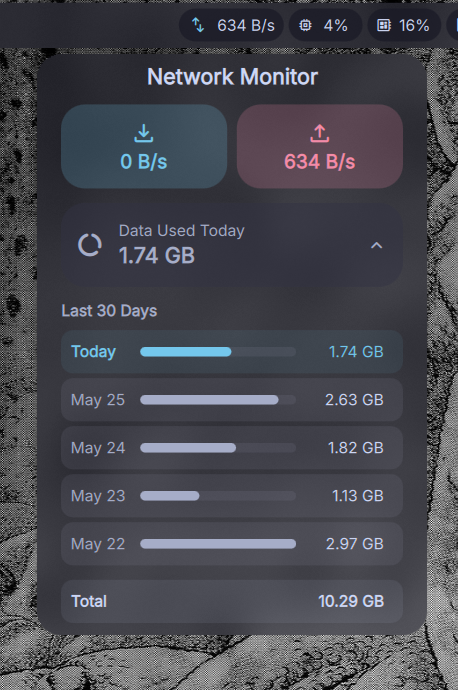
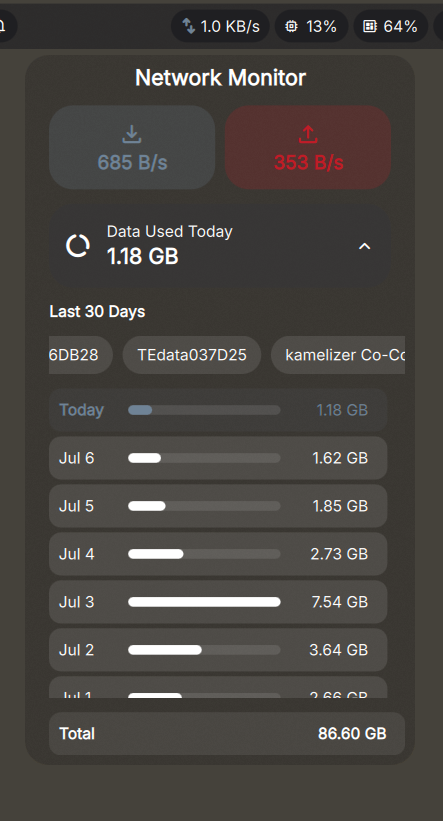
fix: improve network interface selection and reset speed calculations on device switch

diff --git a/NetworkIndicator.qml b/NetworkIndicator.qml
@@ -25,6 +25,7 @@ PluginComponent {
     property real totalSpeed: downloadSpeed + uploadSpeed
     property real prevRxBytes: -1   // -1 = uninitialized sentinel
     property real prevTxBytes: -1
+    property string prevIface: ""   // tracks interface change between cycles
     property bool interfaceFound: true  // assume online until first poll completes
     property bool _foundThisCycle: false // per-cycle temp flag (never triggers re-render)
     property string _activeIfaceThisCycle: "" // interface name found this cycle
@@ -336,18 +337,27 @@ PluginComponent {
         id: netProcess
         command: [
             "sh", "-c",
-            "cat /proc/net/dev; " +
+            "active_iface=\"\"; " +
             "for f in /sys/class/net/*/operstate; do " +
             "  iface=$(basename $(dirname $f)); " +
-            "  echo \"OPSTATE:${iface}:$(cat $f)\"; " +
-            "  if [ -d /sys/class/net/${iface}/wireless ]; then " +
-            "    ssid=$(iwgetid -r ${iface} 2>/dev/null); " +
-            "    if [ -z \"$ssid\" ] && command -v nmcli >/dev/null 2>&1; then " +
-            "      ssid=$(nmcli -t -c no -f device,active,ssid dev wifi 2>/dev/null | grep \"^${iface}:yes:\" | cut -d: -f3-); " +
-            "    fi; " +
-            "    echo \"SSID:${iface}:${ssid}\"; " +
+            "  case \"$iface\" in lo|docker*|br-*|veth*|virbr*) continue ;; esac; " +
+            "  state=$(cat $f 2>/dev/null); " +
+            "  if [ \"$state\" = \"up\" ] || [ \"$state\" = \"unknown\" ]; then " +
+            "    active_iface=\"$iface\"; " +
+            "    break; " +
             "  fi; " +
-            "done"
+            "done; " +
+            "if [ -n \"$active_iface\" ]; then " +
+            "  grep \"^[ ]*$active_iface:\" /proc/net/dev; " +
+            "  echo \"OPSTATE:${active_iface}:up\"; " +
+            "  if [ -d \"/sys/class/net/${active_iface}/wireless\" ]; then " +
+            "    ssid=$(iwgetid -r ${active_iface} 2>/dev/null); " +
+            "    if [ -z \"$ssid\" ] && command -v nmcli >/dev/null 2>&1; then " +
+            "      ssid=$(nmcli -t -c no -f device,active,ssid dev wifi 2>/dev/null | grep \"^${active_iface}:yes:\" | cut -d: -f3-); " +
+            "    fi; " +
+            "    echo \"SSID:${active_iface}:${ssid}\"; " +
+            "  fi; " +
+            "fi"
         ]
         stdout: SplitParser {
             onRead: line => {
@@ -420,12 +430,13 @@ PluginComponent {
                     }
                     root.prevRxBytes = rxBytes;
                     root.prevTxBytes = txBytes;
+                    root.prevIface = ifaceName;
                     // Note: Gap recovery is saved when process exits (so SSID is ready)
                     return;
                 }
 
                 // ── Normal delta accumulation ──
-                if (root.prevRxBytes >= 0 && root.prevTxBytes >= 0) {
+                if (root.prevRxBytes >= 0 && root.prevTxBytes >= 0 && root.prevIface === ifaceName) {
                     var deltaRx = rxBytes - root.prevRxBytes;
                     var deltaTx = txBytes - root.prevTxBytes;
                     var elapsed = root.updateInterval;
@@ -440,10 +451,15 @@ PluginComponent {
                     
                     if (deltaRx > 0) root.todayRx += deltaRx;
                     if (deltaTx > 0) root.todayTx += deltaTx;
+                } else if (root.prevIface !== ifaceName) {
+                    // Interface changed, reset speeds to avoid massive spike
+                    root.downloadSpeed = 0;
+                    root.uploadSpeed = 0;
                 }
 
                 root.prevRxBytes = rxBytes;
                 root.prevTxBytes = txBytes;
+                root.prevIface = ifaceName;
                 // Wait for exit to save so we have the SSID
             }
         }